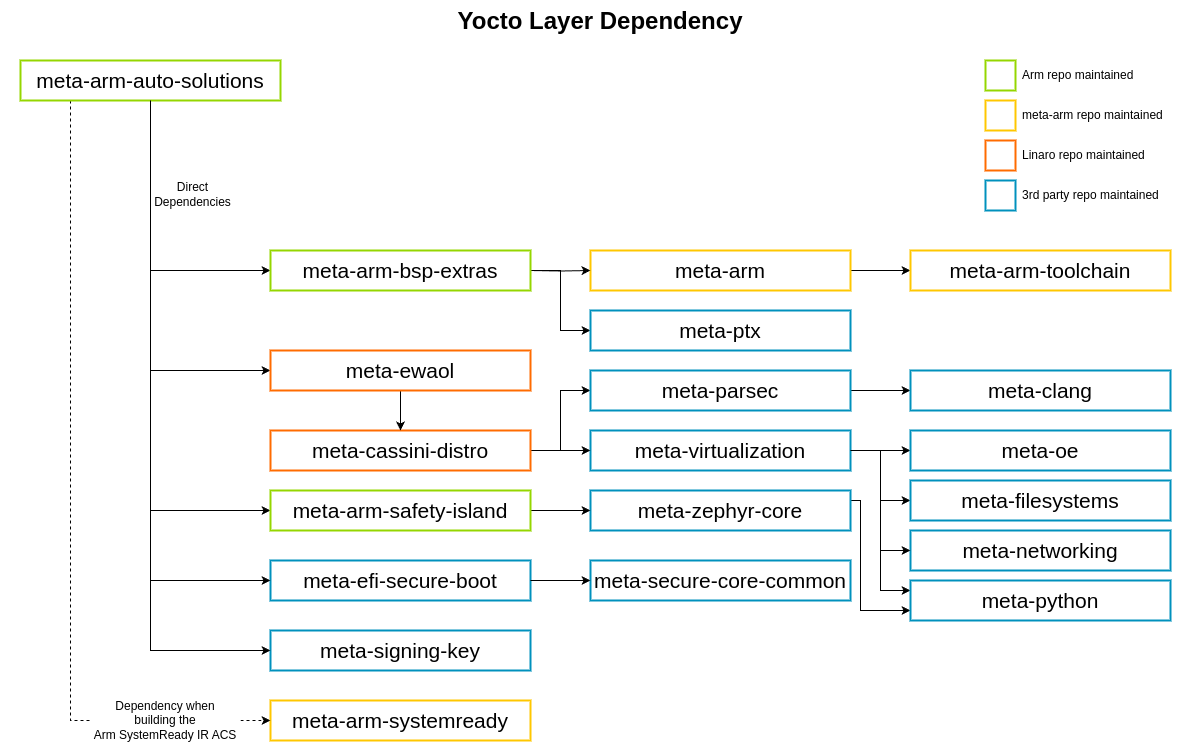
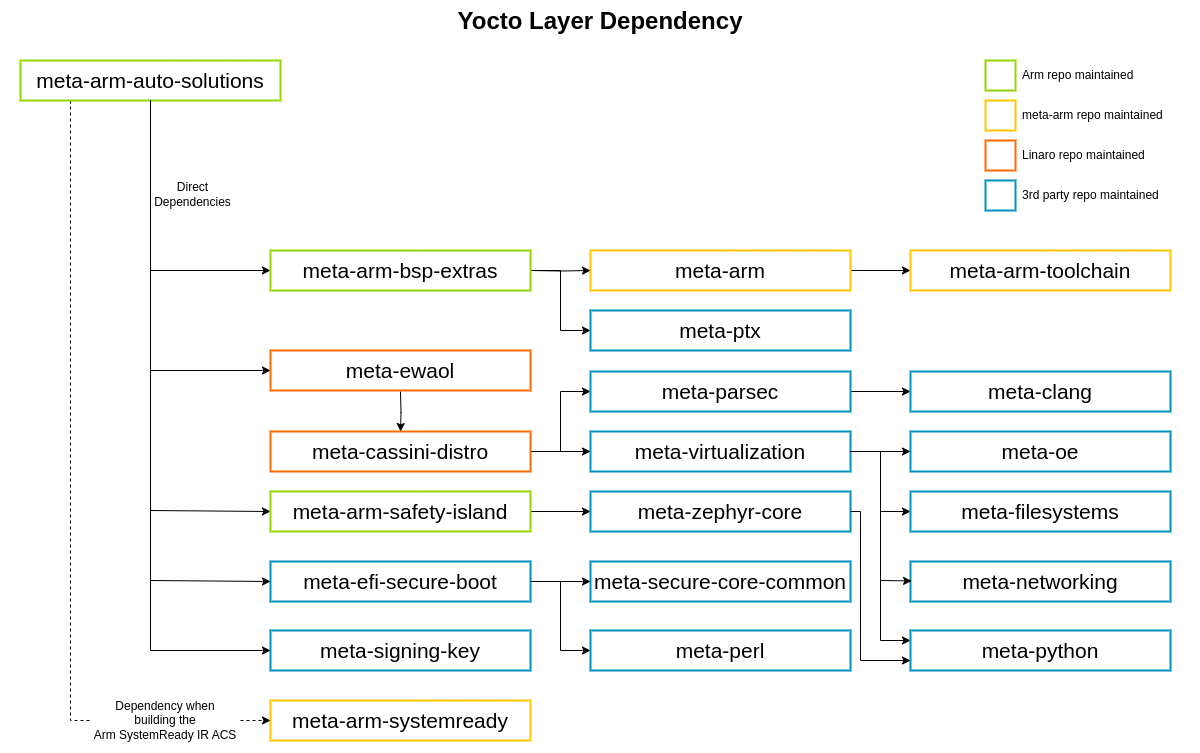
doc: Add missing dependency to yocto layer dependency graph
Change the yocto layer dependency diagram to show that
meta-efi-secure-boot depends on meta-perl.

diff --git a/documentation/releasenotes.rst b/documentation/releasenotes.rst
@@ -1,5 +1,5 @@
 ..
- # SPDX-FileCopyrightText: <text>Copyright 2023-2024 Arm Limited and/or its
+ # SPDX-FileCopyrightText: <text>Copyright 2023-2025 Arm Limited and/or its
  # affiliates <open-source-office@arm.com></text>
  #
  # SPDX-License-Identifier: MIT
@@ -24,6 +24,8 @@ Changed
   is executed from SRAM.
 * Change diagram showing RSE-oriented boot flow to show that BL2 releases
   SCP RAMFW from reset.
+* Change diagram showing Yocto layer dependencies to show that 
+  meta-efi-secure-boot depends on meta-perl.
 
 Bug fixes as listed in :ref:`releasenotes_resolvedissues`.
 
